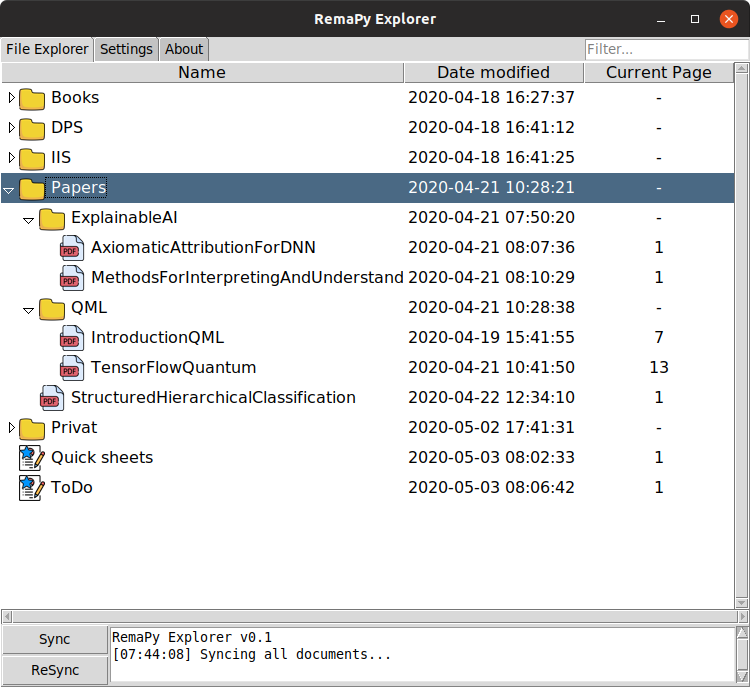
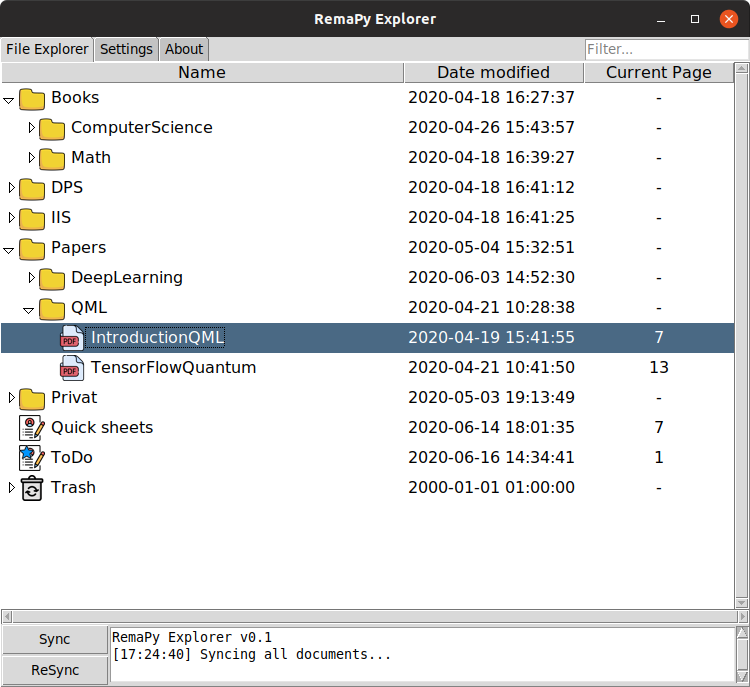
Added trash to file explorer to compatible with 2.2

diff --git a/model/item_manager.py b/model/item_manager.py
@@ -158,20 +158,34 @@ class ItemManager(metaclass=Singleton):
 
     def _create_tree(self, metadata_list):
 
-        lookup_table = {}
-        for i in range(len(metadata_list)):
-            lookup_table[metadata_list[i]["ID"]] = i
-
         # Create a dummy root object where everything starts with parent 
         # "". This parent "" should not be changed as it is also used in 
-        # the rm cloud
+        # the rm cloud. Additionally with version 2.2 of the software 
+        # every tablet implicitly includes a trash.
         root = Collection(None, None)
-        items = {
-            "": root
+
+        trash_metadata = {
+            "ID": "trash",
+            "Parent": root,
+            "VissibleName": "Trash",
+            "Version": 1,
+            "Bookmarked": False,
+            "Type": "CollectionType",
+            "ModifiedClient": "2000-01-01T00:00:00.000000Z"
         }
+        trash = self._create_item(trash_metadata, root)
+        metadata_list.append(trash_metadata)
 
         # We do this for every element, because _create_item_and_parents
         # only ensures that all parents already exist
+        items = {
+            "": root,
+            "trash": trash
+        }
+        lookup_table = {}
+        for i in range(len(metadata_list)):
+            lookup_table[metadata_list[i]["ID"]] = i
+        
         for i in range(len(metadata_list)):
             self._create_item_and_parents(i, metadata_list, items, lookup_table)
 

diff --git a/gui/file_explorer.py b/gui/file_explorer.py
@@ -237,6 +237,7 @@ class FileExplorer(object):
             sorted_children = item.children()
             sorted_children.sort(key=lambda x: str.lower(x.name()), reverse=True)
             sorted_children.sort(key=lambda x: int(x.is_document()), reverse=True)
+            sorted_children.sort(key=lambda x: int(x.id()=="trash"), reverse=True)
             for child in sorted_children:
                 self._update_tree(child, filter)
         except Exception as e:
@@ -320,12 +321,14 @@ class FileExplorer(object):
 
     def _get_icon(self, item):
         if item.is_collection():
+            if item.id() == "trash":
+                return self._create_tree_icon("trash")    
+
             if item.state == model.item.STATE_SYNCED:
                 return self._create_tree_icon("collection", item.bookmarked())
             else:
                 return self._create_tree_icon("collection_syncing")
         
-
         if item.state == model.document.STATE_NOT_SYNCED:
             return self._create_tree_icon("cloud")
         

diff --git a/gui/about.py b/gui/about.py
@@ -25,7 +25,7 @@ ABOUT = \
    project is not affiliated with reMarkable AS, Oslo. 
 
    Icons made by Freepik, Smashicons, Pixel Perfect, iconixar  srip, Good ware, 
-   prettycons, Payungkead from www.flaticon.com
+   prettycons, Payungkead, dDara from www.flaticon.com
 
 
 

diff --git a/README.md b/README.md
@@ -67,4 +67,4 @@ To search all items that contain "remapy" enter only "remapy".
 [1] Python remarkable api, https://github.com/subutux/rmapy <br />
 [2] Golang remarkable tool, https://github.com/juruen/rmapi/ <br />
 [3] Icons made by Freepik, Smashicons, Pixel Perfect, iconixar  srip, 
-Good ware, prettycons, Payungkead from www.flaticon.com <br />
+Good ware, prettycons, Payungkead, dDara from www.flaticon.com <br />
